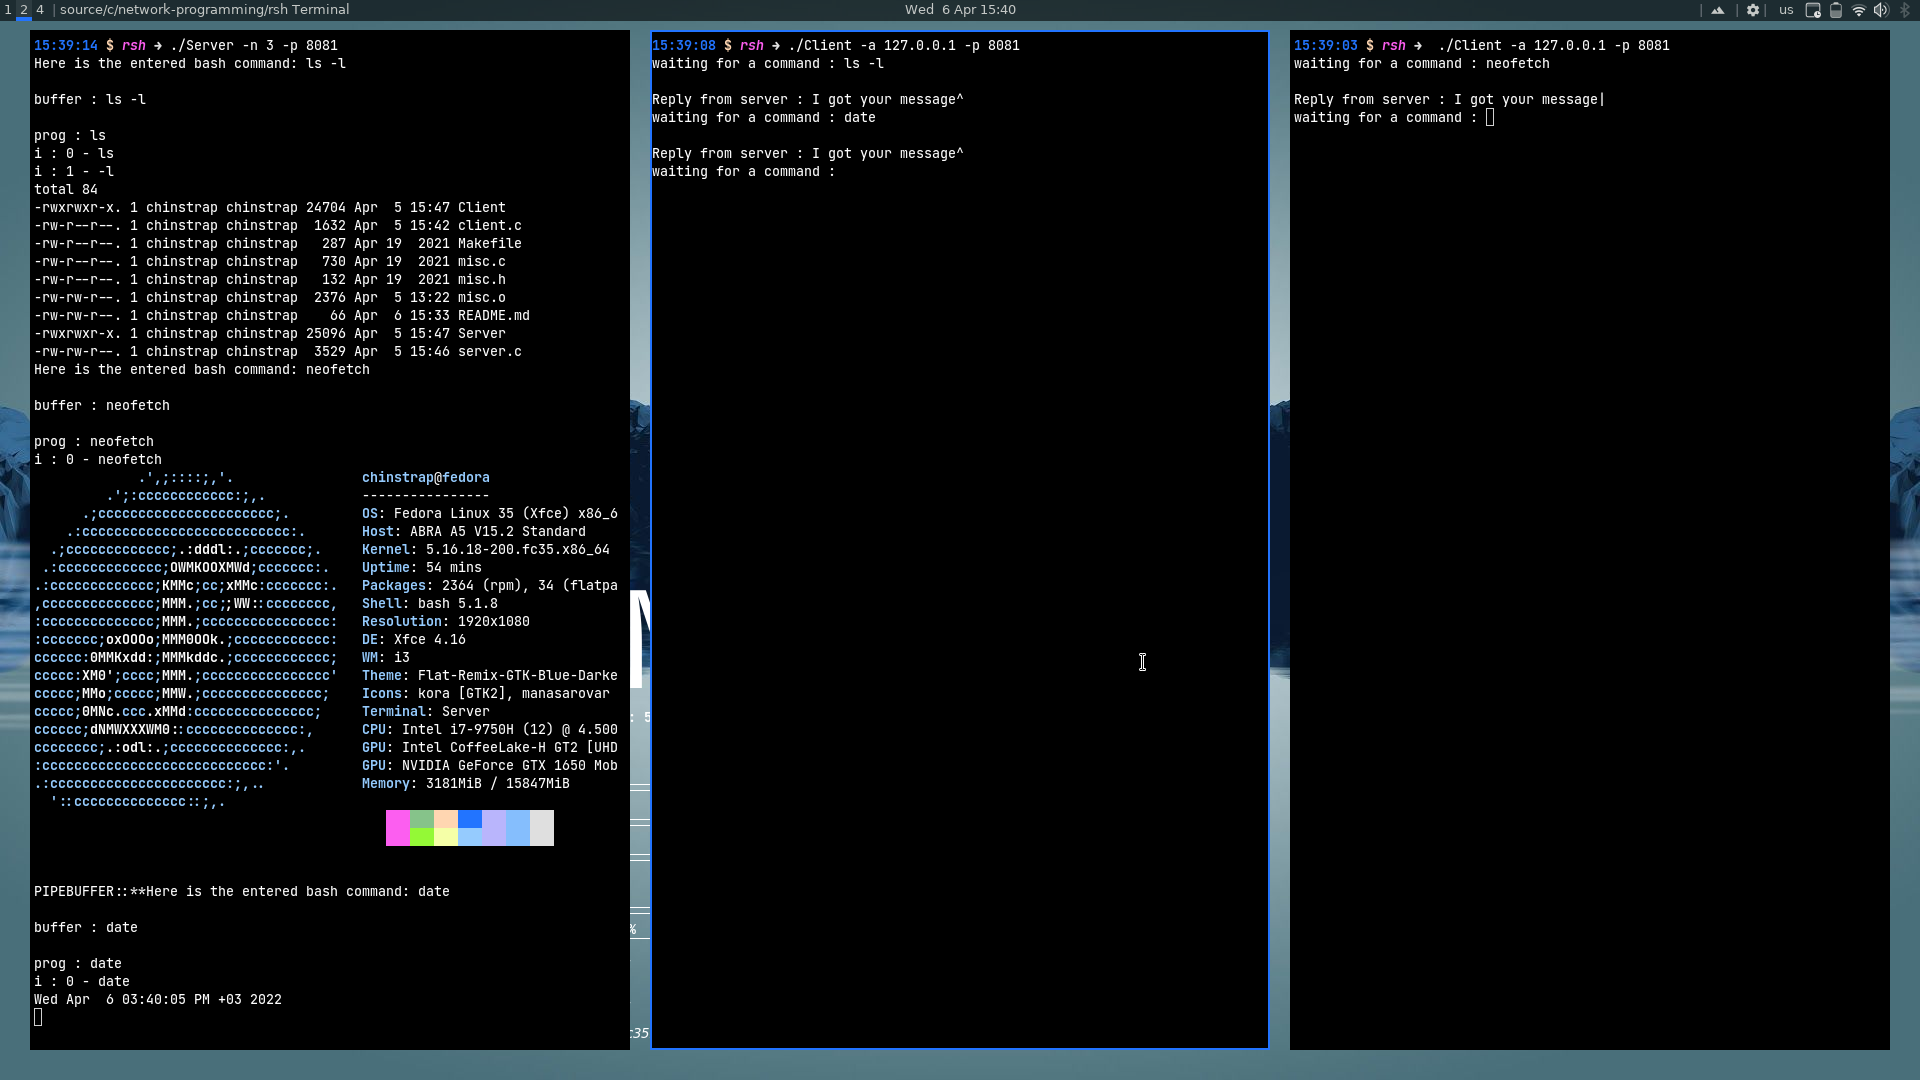
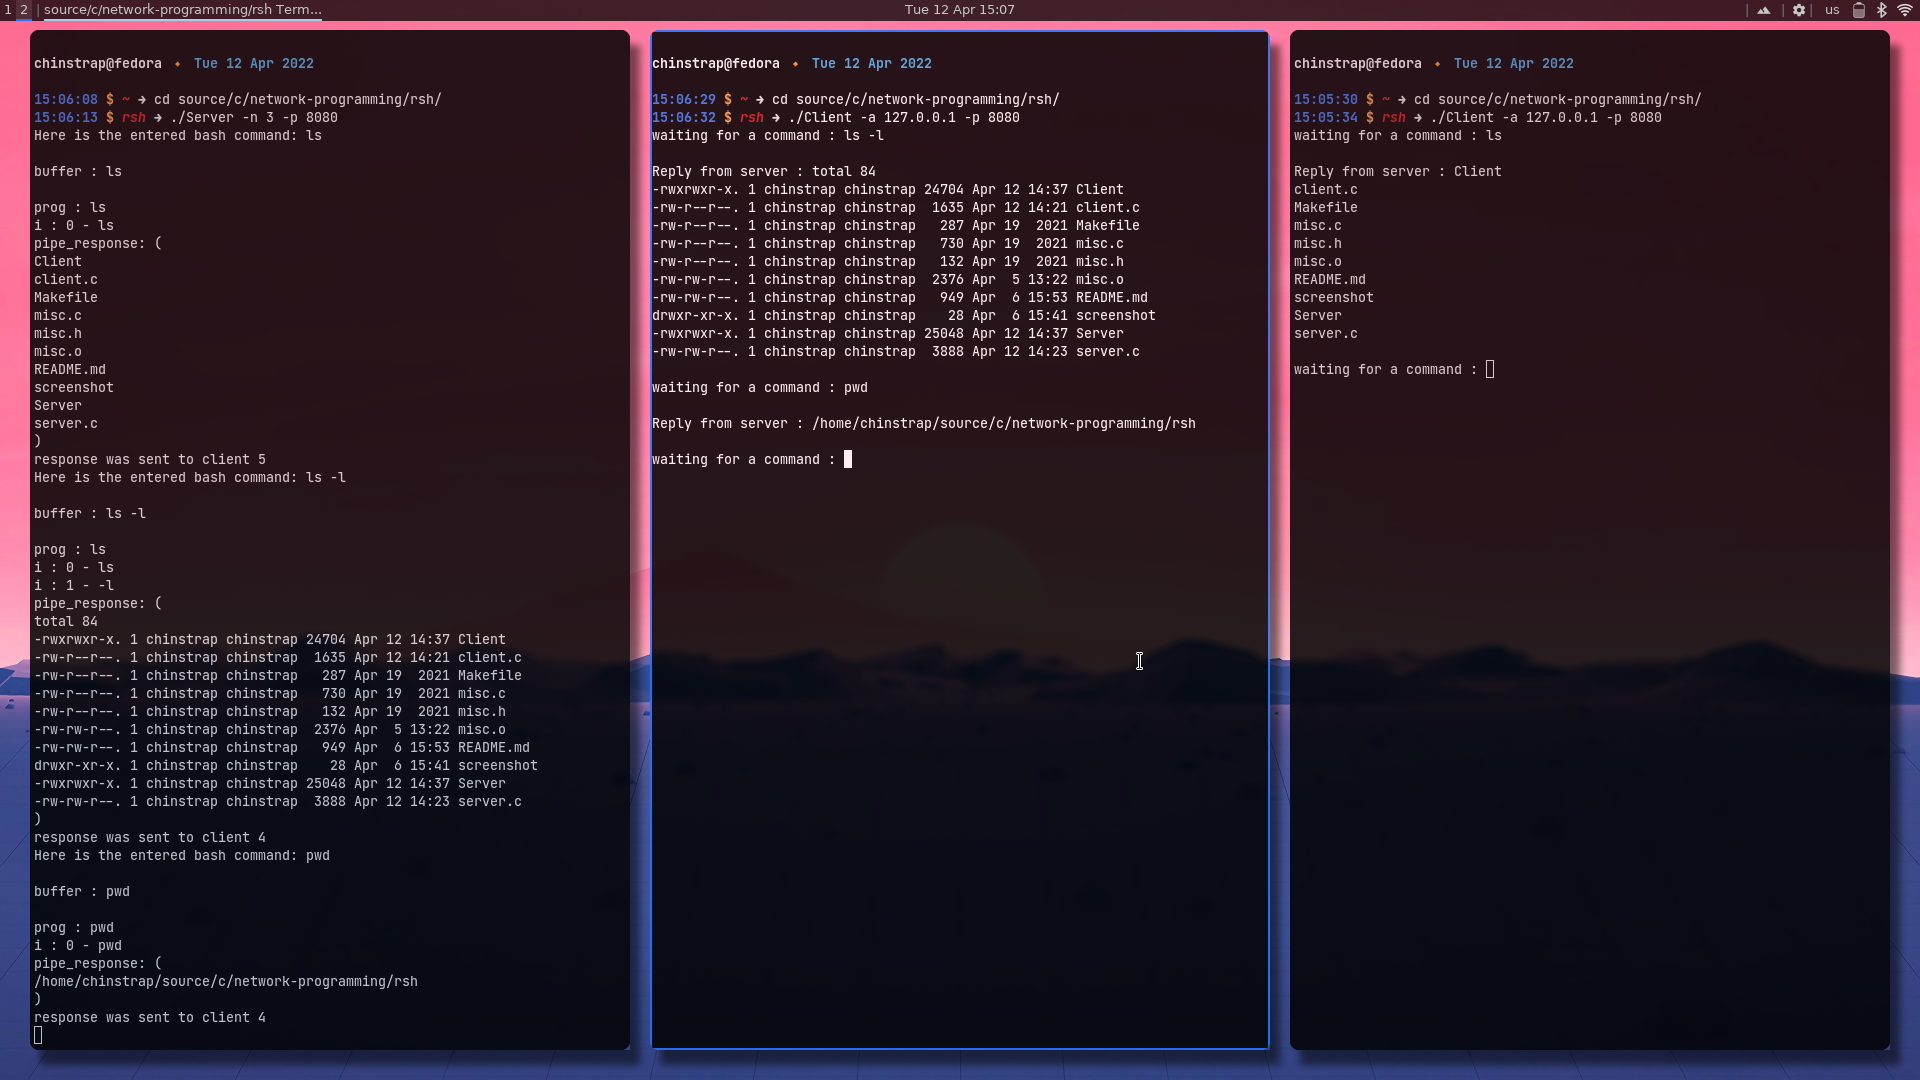
screenshot update

diff --git a/server.c b/server.c
@@ -119,11 +119,12 @@ int main(int argc, char *argv[]) {
             // read returns buffer_size
             int buffer_size = read(pipefd[0], pipebuffer, sizeof(pipebuffer));
             pipebuffer[buffer_size] = '\0';
+            printf("pipe_response: (\n%s)\n", pipebuffer);
             n = send(newsockfd, pipebuffer, buffer_size + 1, 0);
+            printf("response was sent to client %d\n",newsockfd);
             if (n < 0) {
               error("ERROR writing to socket");
             }
-            printf("PIPEBUFFER::*%s*", pipebuffer);
             bzero(buffer, LINE_SIZE); // Clears the buffer
           }
         }
